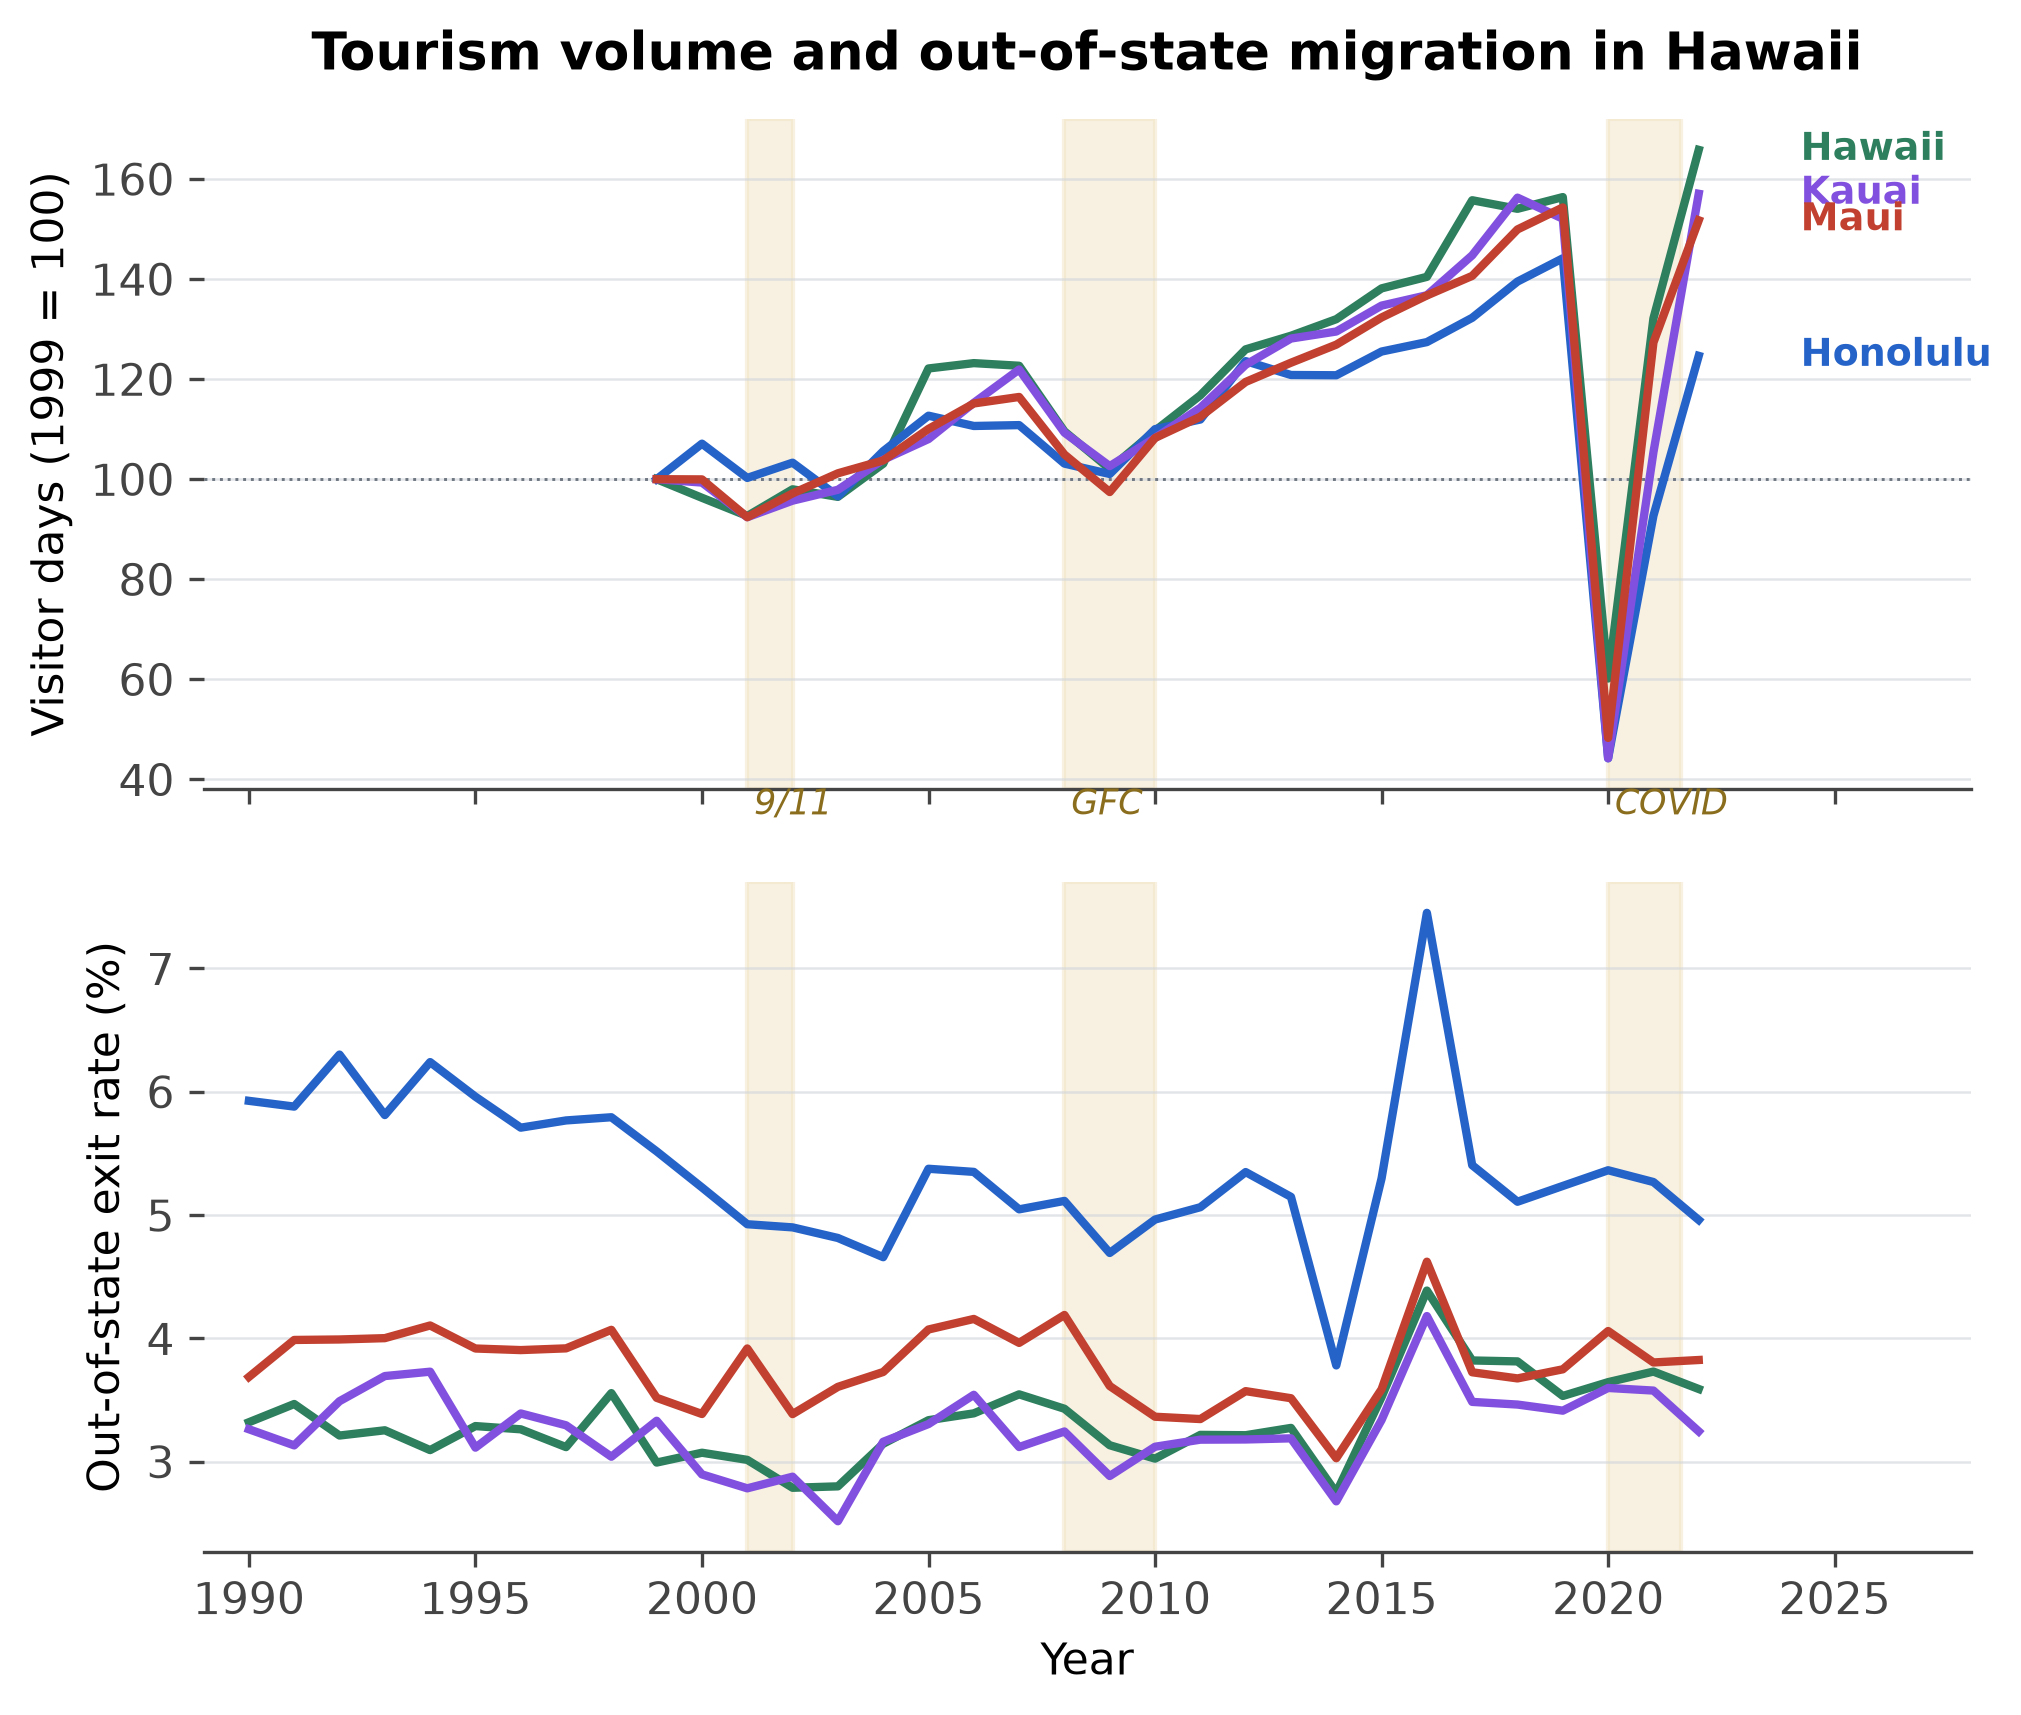
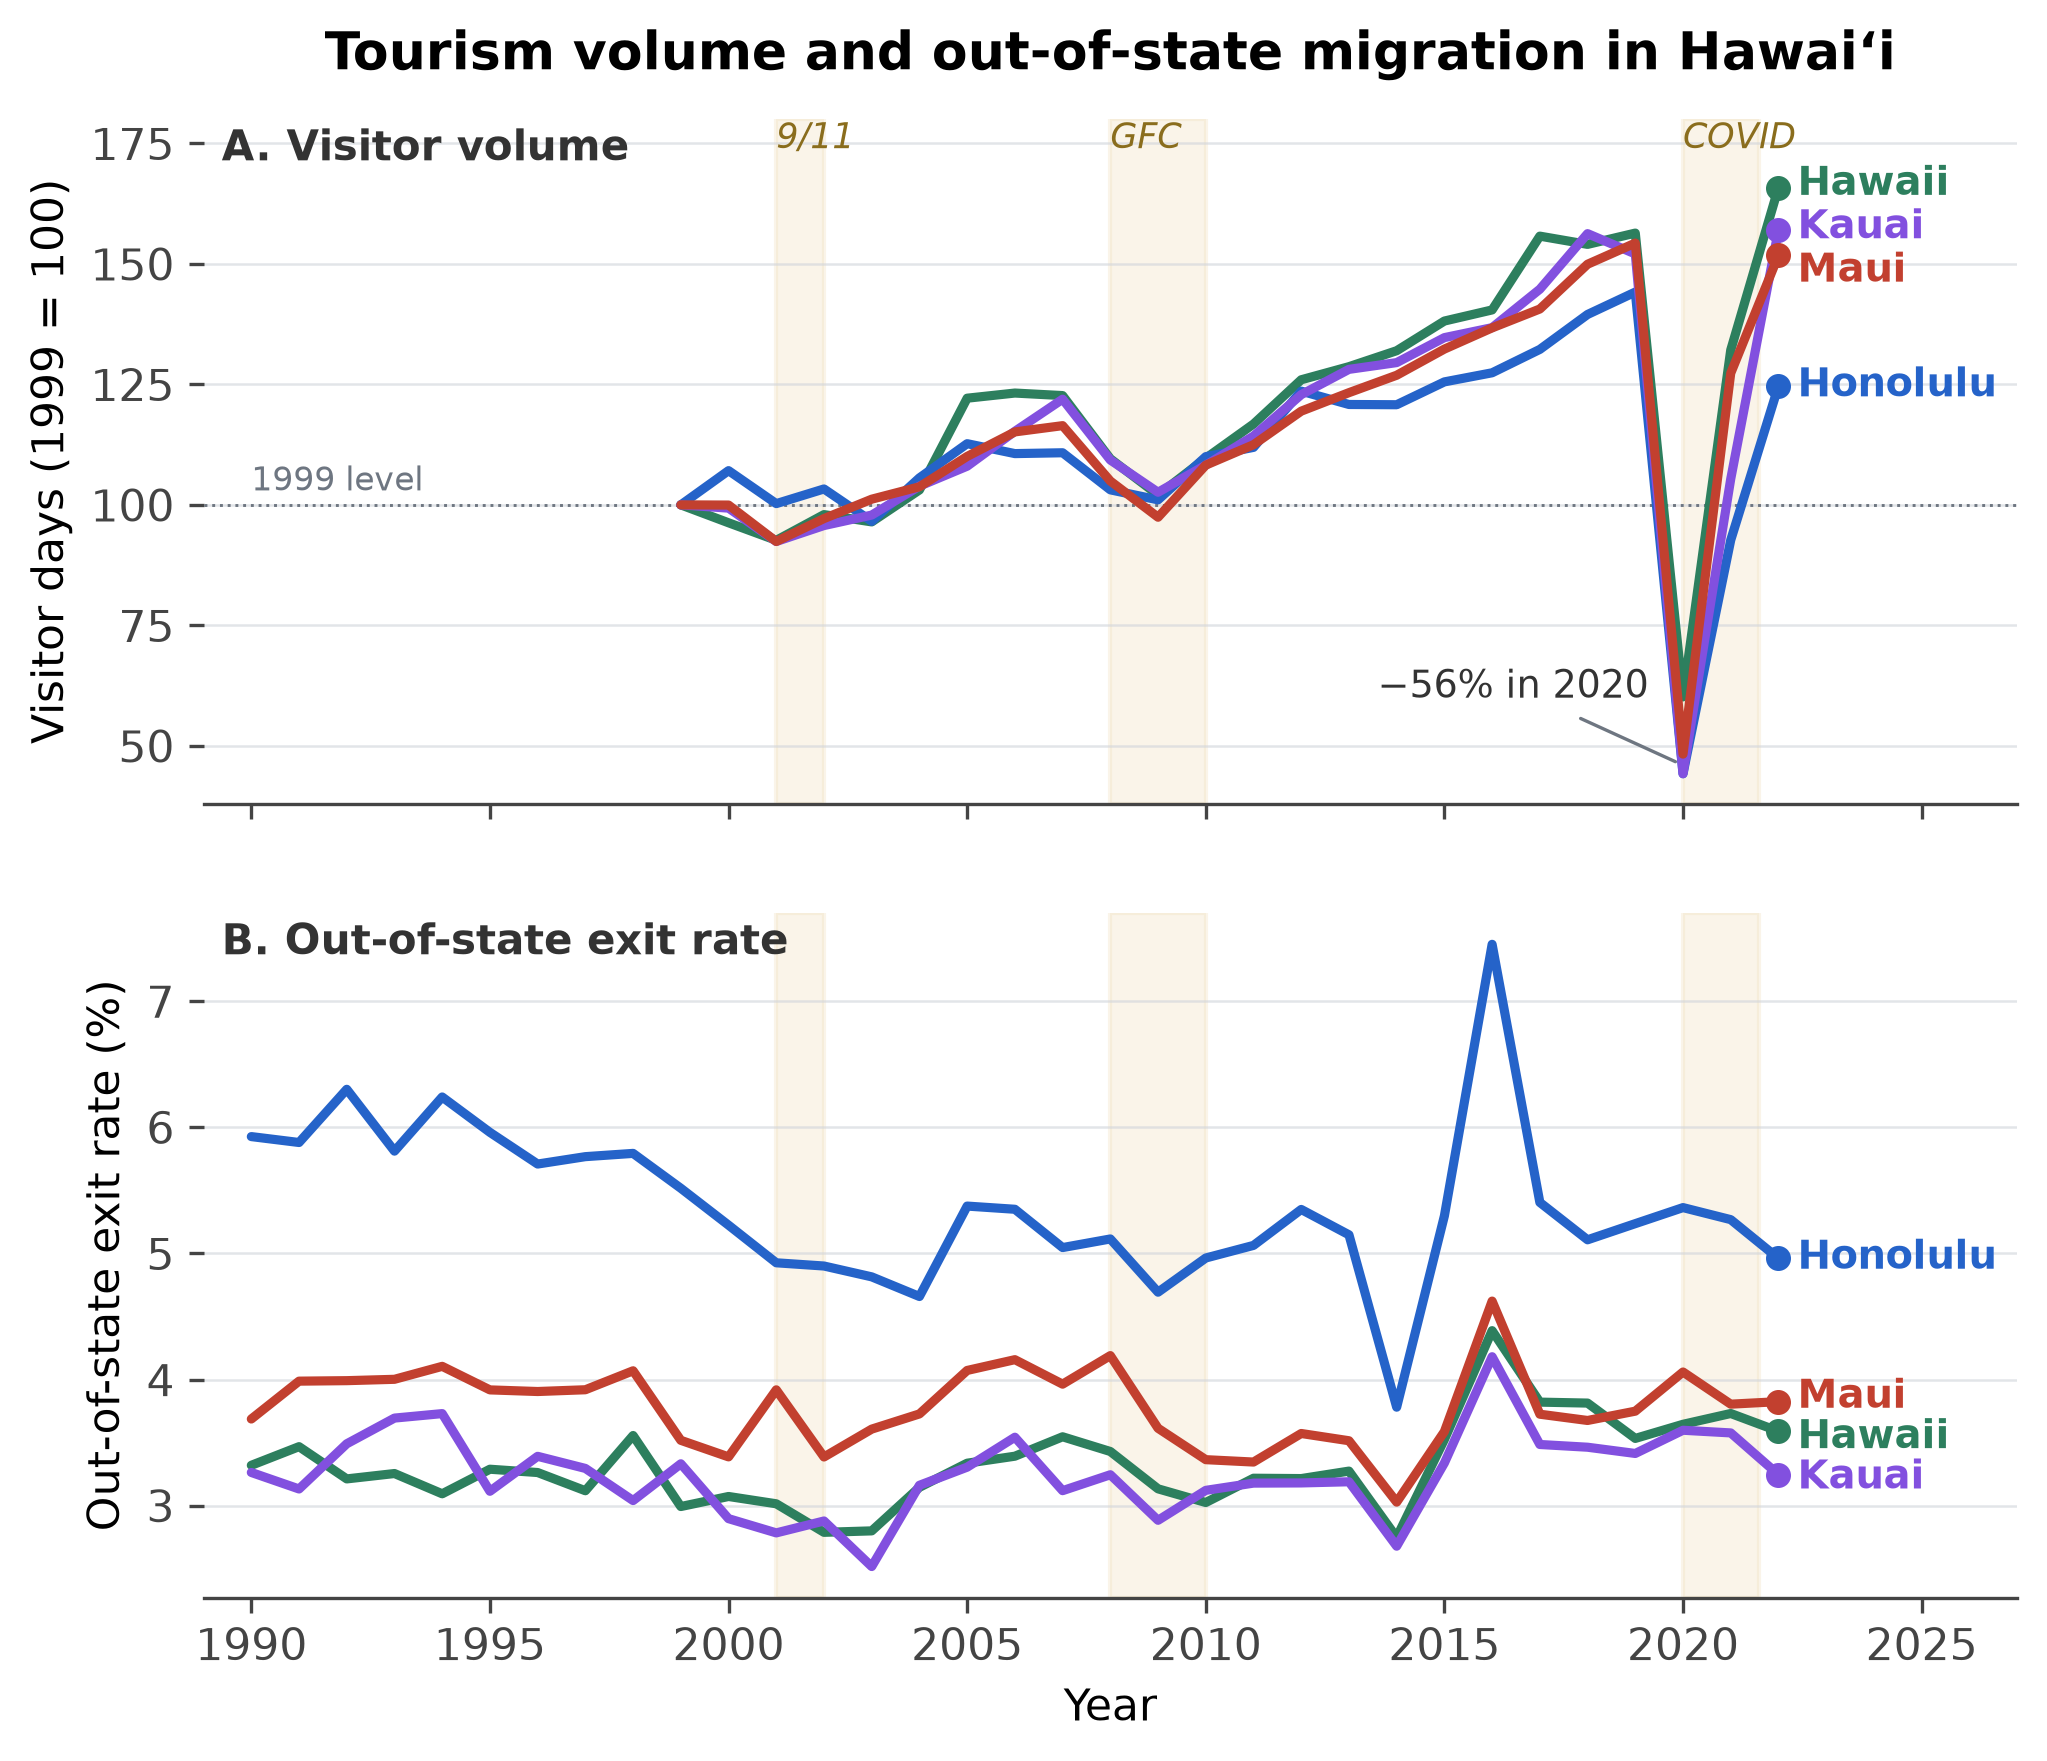
Restyle Hawaii series figure with endpoint labels and annotations

diff --git a/Code/13_figures.py b/Code/13_figures.py
@@ -81,27 +81,68 @@ fig.savefig(FIGDIR / "fig1_synthetic_maui.png")
 plt.close(fig)
 
 # ------------------------------------------- fig 2: Hawaii series ----
-fig, (ax1, ax2) = plt.subplots(2, 1, figsize=(7.6, 6.2), sharex=True,
-                               gridspec_kw={"hspace": 0.14})
-events = [(2001, 2002, "9/11"), (2008, 2010, "GFC"), (2020, 2021.6, "COVID")]
+fig, (ax1, ax2) = plt.subplots(2, 1, figsize=(7.8, 6.4), sharex=True,
+                               gridspec_kw={"hspace": 0.16})
+events = [(2001, 2002, "9/11"), (2008, 2010, "GFC"),
+          (2020, 2021.6, "COVID")]
 for ax in (ax1, ax2):
     for a, b, _ in events:
-        ax.axvspan(a, b, color=BAND, alpha=0.45, zorder=0)
+        ax.axvspan(a, b, color=BAND, alpha=0.35, zorder=0)
+
+def spread(targets, min_gap):
+    """Nudge label y-positions apart until no pair overlaps."""
+    order = sorted(range(len(targets)), key=lambda i: targets[i])
+    ys = [targets[i] for i in order]
+    for _ in range(50):
+        moved = False
+        for i in range(1, len(ys)):
+            if ys[i] - ys[i - 1] < min_gap:
+                ys[i - 1] -= (min_gap - (ys[i] - ys[i - 1])) / 2
+                ys[i] += (min_gap - (ys[i] - ys[i - 1])) / 2
+                moved = True
+        if not moved:
+            break
+    out = [0.0] * len(targets)
+    for pos, i in enumerate(order):
+        out[i] = ys[pos]
+    return out
+
+ends1, ends2, cols, labs = [], [], [], []
 for c, col in HI_COLORS.items():
     d = hi[hi.county == c].sort_values("year")
     v = d.dropna(subset=["visitor_days"])
     base = v[v.year == 1999].visitor_days.iloc[0]
-    ax1.plot(v.year, 100 * v.visitor_days / base, color=col, lw=2, zorder=3)
-    endlabel(ax1, 2024, (100 * v.visitor_days / base).iloc[-1],
-             c.replace(" County", ""), col, dx=0.25, fs=9)
-    ax2.plot(d.year, 100 * d.out_rate_diff_state, color=col, lw=2, zorder=3)
+    s1 = 100 * v.visitor_days / base
+    ax1.plot(v.year, s1, color=col, lw=2.2, zorder=3,
+             solid_capstyle="round")
+    ax1.plot(v.year.iloc[-1], s1.iloc[-1], "o", color=col, ms=5, zorder=4)
+    s2 = 100 * d.out_rate_diff_state
+    ax2.plot(d.year, s2, color=col, lw=2.2, zorder=3,
+             solid_capstyle="round")
+    ax2.plot(d.year.iloc[-1], s2.iloc[-1], "o", color=col, ms=5, zorder=4)
+    ends1.append(s1.iloc[-1]); ends2.append(s2.iloc[-1])
+    cols.append(col); labs.append(c.replace(" County", ""))
+for ys, ax, gap in [(spread(ends1, 9), ax1, 9),
+                    (spread(ends2, 0.32), ax2, 0.32)]:
+    for y, col, lab in zip(ys, cols, labs):
+        ax.annotate(lab, (2022.4, y), color=col, fontsize=9.5,
+                    fontweight="semibold", va="center")
 for a, _, lab in events:
-    ax1.text(a + 0.15, 33, lab, color="#8a6d1d", fontsize=8.5,
-             style="italic")
+    ax1.text((a), 174, lab, color="#8a6d1d", fontsize=8.5,
+             style="italic", ha="left")
 ax1.axhline(100, color=GRAY, lw=0.7, ls=":")
+ax1.text(1990, 103, "1999 level", color=GRAY, fontsize=8)
+ax1.annotate("\u221256% in 2020", xy=(2020, 46), xytext=(2013.6, 60),
+             fontsize=9, color="#333333",
+             arrowprops=dict(arrowstyle="-", color=GRAY, lw=0.8))
 ax1.set_ylabel("Visitor days (1999 = 100)")
-ax1.set_xlim(1989, 2028)
-ax1.set_title("Tourism volume and out-of-state migration in Hawaii")
+ax1.set_ylim(38, 180)
+ax1.set_xlim(1989, 2027)
+ax1.set_title("Tourism volume and out-of-state migration in Hawai\u02bbi")
+ax1.text(0.01, 0.94, "A. Visitor volume", transform=ax1.transAxes,
+         fontsize=10, fontweight="semibold", color="#333333")
+ax2.text(0.01, 0.94, "B. Out-of-state exit rate", transform=ax2.transAxes,
+         fontsize=10, fontweight="semibold", color="#333333")
 ax2.set_ylabel("Out-of-state exit rate (%)")
 ax2.set_xlabel("Year")
 fig.savefig(FIGDIR / "fig2_hawaii_series.png")
